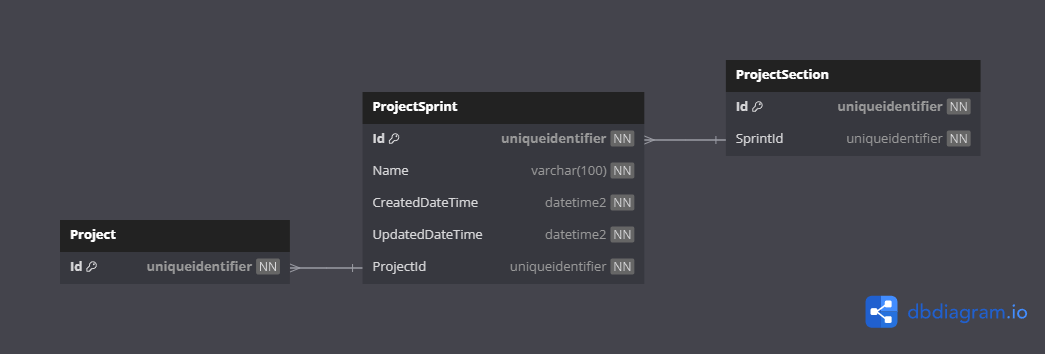
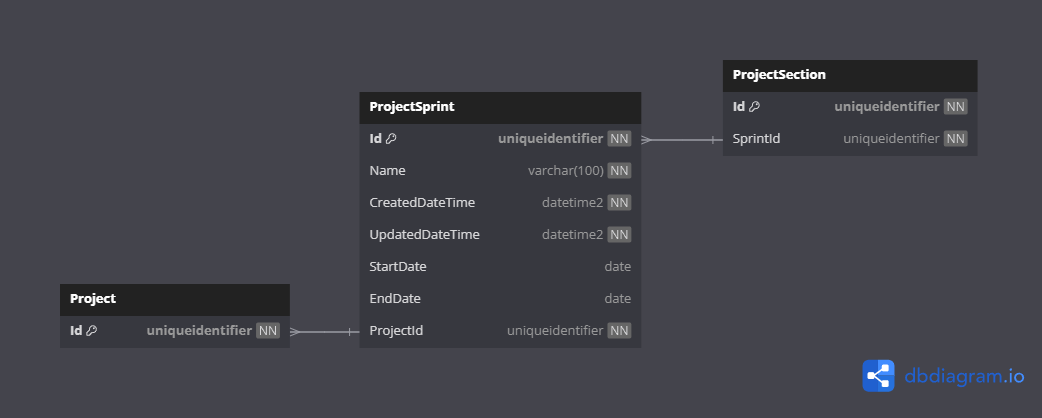
#40 Domain - New Entity: Project Task Comment + new properties on Project Task and Project Sprint

diff --git a/src/ConsiliumTempus.Domain/Project/Entities/ProjectTask.cs b/src/ConsiliumTempus.Domain/Project/Entities/ProjectTask.cs
@@ -16,36 +16,50 @@ public sealed class ProjectTask : Entity<ProjectTaskId>, ITimestamps
     private ProjectTask(
         string name,
         string description,
+        UserAggregate createdBy,
         ProjectSection section,
         DateTime createdDateTime,
         DateTime updatedDateTime)
     {
         Name = name;
         Description = description;
+        CreatedBy = createdBy;
         Section = section;
         CreatedDateTime = createdDateTime;
         UpdatedDateTime = updatedDateTime;
     }
+
+    private readonly List<ProjectTaskComment> _comments = [];
     
     public string Name { get; private set; } = string.Empty;
     public string Description { get; private set; } = string.Empty;
+    public UserAggregate CreatedBy { get; private set; } = default!;
     public DateTime CreatedDateTime { get; init; }
     public DateTime UpdatedDateTime { get; private set; }
-    public UserAggregate? Asignee { get; private set; } = null;
-    public UserAggregate? Reviewer { get; private set; } = null;
-    public DateOnly? DueDate { get; private set; } = null;
+    public UserAggregate? Asignee { get; private set; }
+    public UserAggregate? Reviewer { get; private set; }
+    public DateOnly? DueDate { get; private set; }
+    public TimeSpan? EstimatedDuration { get; private set; }
     public ProjectSection Section { get; init; } = default!;
+    public IReadOnlyList<ProjectTaskComment> Comments => _comments.AsReadOnly();
 
     public static ProjectTask Create(
         string name,
         string description,
+        UserAggregate createdBy,
         ProjectSection section)
     {
         return new ProjectTask(
             name,
             description,
+            createdBy,
             section,
             DateTime.UtcNow, 
             DateTime.UtcNow);
+    }
+
+    public void AddComment(ProjectTaskComment comment)
+    {
+        _comments.Add(comment);
     }
 }

diff --git a/src/ConsiliumTempus.Domain/Project/Entities/ProjectTaskComment.cs b/src/ConsiliumTempus.Domain/Project/Entities/ProjectTaskComment.cs
@@ -1,0 +1,46 @@
+using System.Diagnostics.CodeAnalysis;
+using ConsiliumTempus.Domain.Common.Interfaces;
+using ConsiliumTempus.Domain.Common.Models;
+using ConsiliumTempus.Domain.Project.ValueObjects;
+using ConsiliumTempus.Domain.User;
+
+namespace ConsiliumTempus.Domain.Project.Entities;
+
+public sealed class ProjectTaskComment : Entity<ProjectTaskCommentId>, ITimestamps
+{
+    [SuppressMessage("ReSharper", "UnusedMember.Local")] // used by EF
+    private ProjectTaskComment()
+    {
+    }
+
+    private ProjectTaskComment(
+        string message,
+        ProjectTask task,
+        DateTime createdDateTime,
+        DateTime updatedDateTime)
+    {
+        Message = message;
+        Task = task;
+        CreatedDateTime = createdDateTime;
+        UpdatedDateTime = updatedDateTime;
+    }
+    
+    public string Message { get; private set; } = string.Empty;
+    public UserAggregate CreatedBy { get; private set; } = default!;
+    public DateTime CreatedDateTime { get; init; }
+    public DateTime UpdatedDateTime { get; private set; }
+    public DateOnly? Date { get; private set; }
+    public TimeSpan? TimeSpent { get; private set; }
+    public ProjectTask Task { get; init; } = default!;
+
+    public static ProjectTaskComment Create(
+        string message,
+        ProjectTask task)
+    {
+        return new ProjectTaskComment(
+            message,
+            task,
+            DateTime.UtcNow, 
+            DateTime.UtcNow);
+    }
+}

diff --git a/src/ConsiliumTempus.Domain/Project/ValueObjects/ProjectTaskCommentId.cs b/src/ConsiliumTempus.Domain/Project/ValueObjects/ProjectTaskCommentId.cs
@@ -1,0 +1,34 @@
+using System.Diagnostics.CodeAnalysis;
+using ConsiliumTempus.Domain.Common.Models;
+
+namespace ConsiliumTempus.Domain.Project.ValueObjects;
+
+public sealed class ProjectTaskCommentId : ValueObject
+{
+    [SuppressMessage("ReSharper", "UnusedMember.Local")] // used by EF
+    private ProjectTaskCommentId()
+    {
+    }
+
+    private ProjectTaskCommentId(Guid value)
+    {
+        Value = value;
+    }
+
+    public Guid Value { get; init; }
+
+    public static ProjectTaskCommentId CreateUnique()
+    {
+        return new ProjectTaskCommentId(Guid.NewGuid());
+    }
+
+    public static ProjectTaskCommentId Create(Guid value)
+    {
+        return new ProjectTaskCommentId(value);
+    }
+
+    protected override IEnumerable<object> GetEqualityComponents()
+    {
+        yield return Value;
+    }
+}

diff --git a/src/ConsiliumTempus.Domain/Project/Entities/ProjectSprint.cs b/src/ConsiliumTempus.Domain/Project/Entities/ProjectSprint.cs
@@ -29,6 +29,8 @@ public sealed class ProjectSprint : Entity<ProjectSprintId>, ITimestamps
     public string Name { get; private set; } = string.Empty;
     public DateTime CreatedDateTime { get; init; }
     public DateTime UpdatedDateTime { get; private set; }
+    public DateOnly? StartDate { get; private set; }
+    public DateOnly? EndDate { get; private set; }
     public ProjectAggregate Project { get; init; } = default!;
     public IReadOnlyList<ProjectSection> Sections => _sections.AsReadOnly();
 

diff --git a/src/ConsiliumTempus.Domain/Common/Validation/PropertiesValidation.Project.cs b/src/ConsiliumTempus.Domain/Common/Validation/PropertiesValidation.Project.cs
@@ -23,4 +23,9 @@ public static partial class PropertiesValidation
         public const short NameMaximumLength = 100;
         public const short DescriptionMaximumLength = 1000;
     }
+
+    public static class ProjectTaskComment
+    {
+        public const short MessageMaximumLength = 256;
+    }
 }

diff --git a/docs/domain/entities/project/Entity.ProjectTaskComment.md b/docs/domain/entities/project/Entity.ProjectTaskComment.md
@@ -1,0 +1,31 @@
+# Domain Entities
+
+## Project Task Comment
+
+This is the project task **comment** entity.
+
+```csharp
+class ProjectTaskComment
+{
+    ProjectTaskComment Create()
+}
+```
+
+```json
+{
+  "id": { "value": "00000000-0000-0000-0000-000000000000" },
+  "message": "The processes are fixed",
+  "createdBy": {},
+  "createdDateTime": "2020-01-01T00:00:00.0000000Z",
+  "updatedDateTime": "2020-01-01T00:00:00.0000000Z",
+  "date": "2020-01-01",
+  "timeSpent": "08:30",
+  "task": {}
+}
+```
+
+For database design checkout the [Project Task Comment Diagram](../../diagrams/entities/project/Diagram.ProjectTaskComment.md).
+
+### Properties Validation
+
+- The **Message** cannot be longer than 256 characters

diff --git a/docs/domain/diagrams/entities/project/Diagram.ProjectTask.md b/docs/domain/diagrams/entities/project/Diagram.ProjectTask.md
@@ -4,8 +4,9 @@
 
 ### Relationships
 
-- **Many-to-one** relationship with the [Project Section](../../../entities/project/Entity.ProjectSection.md) aggregate.
-- **Many-to-one** relationship with the [User](../../../aggregates/Aggregate.User.md) aggregate.
+- **Many-to-one** relationship with the [Project Section](../../../entities/project/Entity.ProjectSection.md) entity.
+- Three **Many-to-one** relationships with the [User](../../../aggregates/Aggregate.User.md) aggregate.
+- **One-to-Many** relationship with the [Project Task Comment](../../../entities/project/Entity.ProjectTaskComment.md) entity.
 
 ### Diagram
 

diff --git a/docs/domain/entities/project/Entity.ProjectTask.md b/docs/domain/entities/project/Entity.ProjectTask.md
@@ -8,6 +8,7 @@ This is the project **task** entity.
 class ProjectTask
 {
     ProjectTask Create()
+    void AddComment()
 }
 ```
 
@@ -16,12 +17,15 @@ class ProjectTask
   "id": { "value": "00000000-0000-0000-0000-000000000000" },
   "name": "Task 1",
   "description": "This is the description of the task",
+  "createdBy": {},
   "createdDateTime": "2020-01-01T00:00:00.0000000Z",
   "updatedDateTime": "2020-01-01T00:00:00.0000000Z",
   "assignee": {},
   "reviewer": {},
   "dueDate": "2020-01-01",
-  "section": {}
+  "estimatedDuration": "08:30",
+  "section": {},
+  "comments": [{}]
 }
 ```
 

diff --git a/docs/domain/diagrams/entities/project/Diagram.ProjectTaskComment.md b/docs/domain/diagrams/entities/project/Diagram.ProjectTaskComment.md
@@ -1,0 +1,12 @@
+# Database Diagrams
+
+## Project Task Comment
+
+### Relationships
+
+- **Many-to-one** relationship with the [Project Task](../../../entities/project/Entity.ProjectTask.md) aggregate.
+- **Many-to-one** relationship with the [User](../../../aggregates/Aggregate.User.md) aggregate.
+
+### Diagram
+
+<img src="../../../../images/domain/diagrams/entities/project/diagram.project-task-comment.png" alt="Project Task Comment Diagram" width="75%"/>

diff --git a/docs/domain/aggregates/Aggregate.Project.md b/docs/domain/aggregates/Aggregate.Project.md
@@ -33,6 +33,7 @@ For database design checkout the [Project Diagram](../diagrams/aggregates/Diagra
 - [Project Sprint](../entities/project/Entity.ProjectSprint.md)
 - [Project Section](../entities/project/Entity.ProjectSection.md)
 - [Project Task](../entities/project/Entity.ProjectTask.md)
+- [Project Task Comment](../entities/project/Entity.ProjectTaskComment.md)
 
 ### Properties Validation
 

diff --git a/docs/domain/entities/project/Entity.ProjectSprint.md b/docs/domain/entities/project/Entity.ProjectSprint.md
@@ -18,6 +18,8 @@ class ProjectSprint
   "name": "Sprint 1",
   "createdDateTime": "2020-01-01T00:00:00.0000000Z",
   "updatedDateTime": "2020-01-01T00:00:00.0000000Z",
+  "startDate": "2020-01-01",
+  "endDate": "2022-12-12",
   "project": {},
   "sections": [{}]
 }
